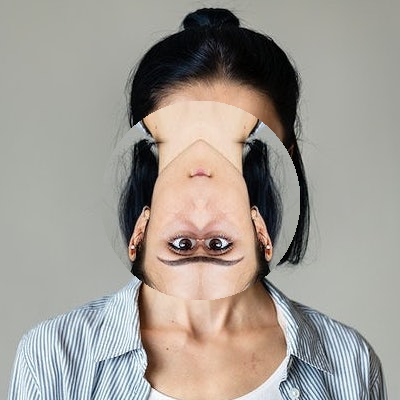
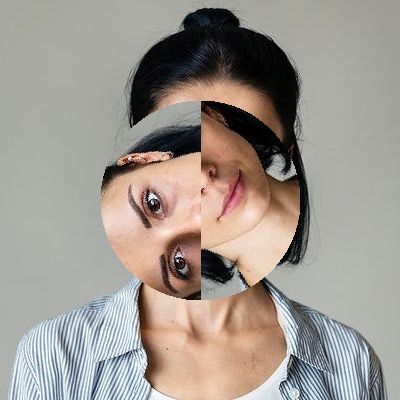
not working yet

Changed region(s): [[0.24, 0.24, 0.75, 0.75]]

diff --git a/Problem1.py b/Problem1.py
@@ -382,13 +382,15 @@ def problem4(img_name,strength_swirl,radius_swirl):
                 if r==0:
                     continue
                 theta = math.acos(norm_x/r) #angle from center of img
+                if y>center_y:
+                    theta+=math.pi
                 #x_1=int(r*math.cos(theta))
                 #y_1=int(r*math.sin(theta))
                 strength_swirl_change = 1-(r/radius_swirl)
-                if x<200 and x>190 and y>190 and y<200:
-                    print(theta,strength_swirl_change)
+                #if x<200 and x>190 and y>190 and y<200:
+                #    print(theta,strength_swirl_change)
                 if(strength_swirl_change>0):
-                    angle = strength_swirl#*strength_swirl_change
+                    angle = strength_swirl#*strength_swirl_change*math.pi*2
                     theta += angle
                     norm_x = int(r*math.cos(theta)+0.5)
                     norm_y = int(r*math.sin(theta)+0.5)
@@ -404,5 +406,5 @@ def problem4(img_name,strength_swirl,radius_swirl):
 #problem1('./face2.jpg',0.6,0.5,'rainbow')
 #problem2('./face1.jpg',0.8,'coloured pencil')
 #problem3('./face1.jpg',0.7)
-problem4('./face1.jpg',math.pi,100)
+problem4('./face1.jpg',2,100)
 
